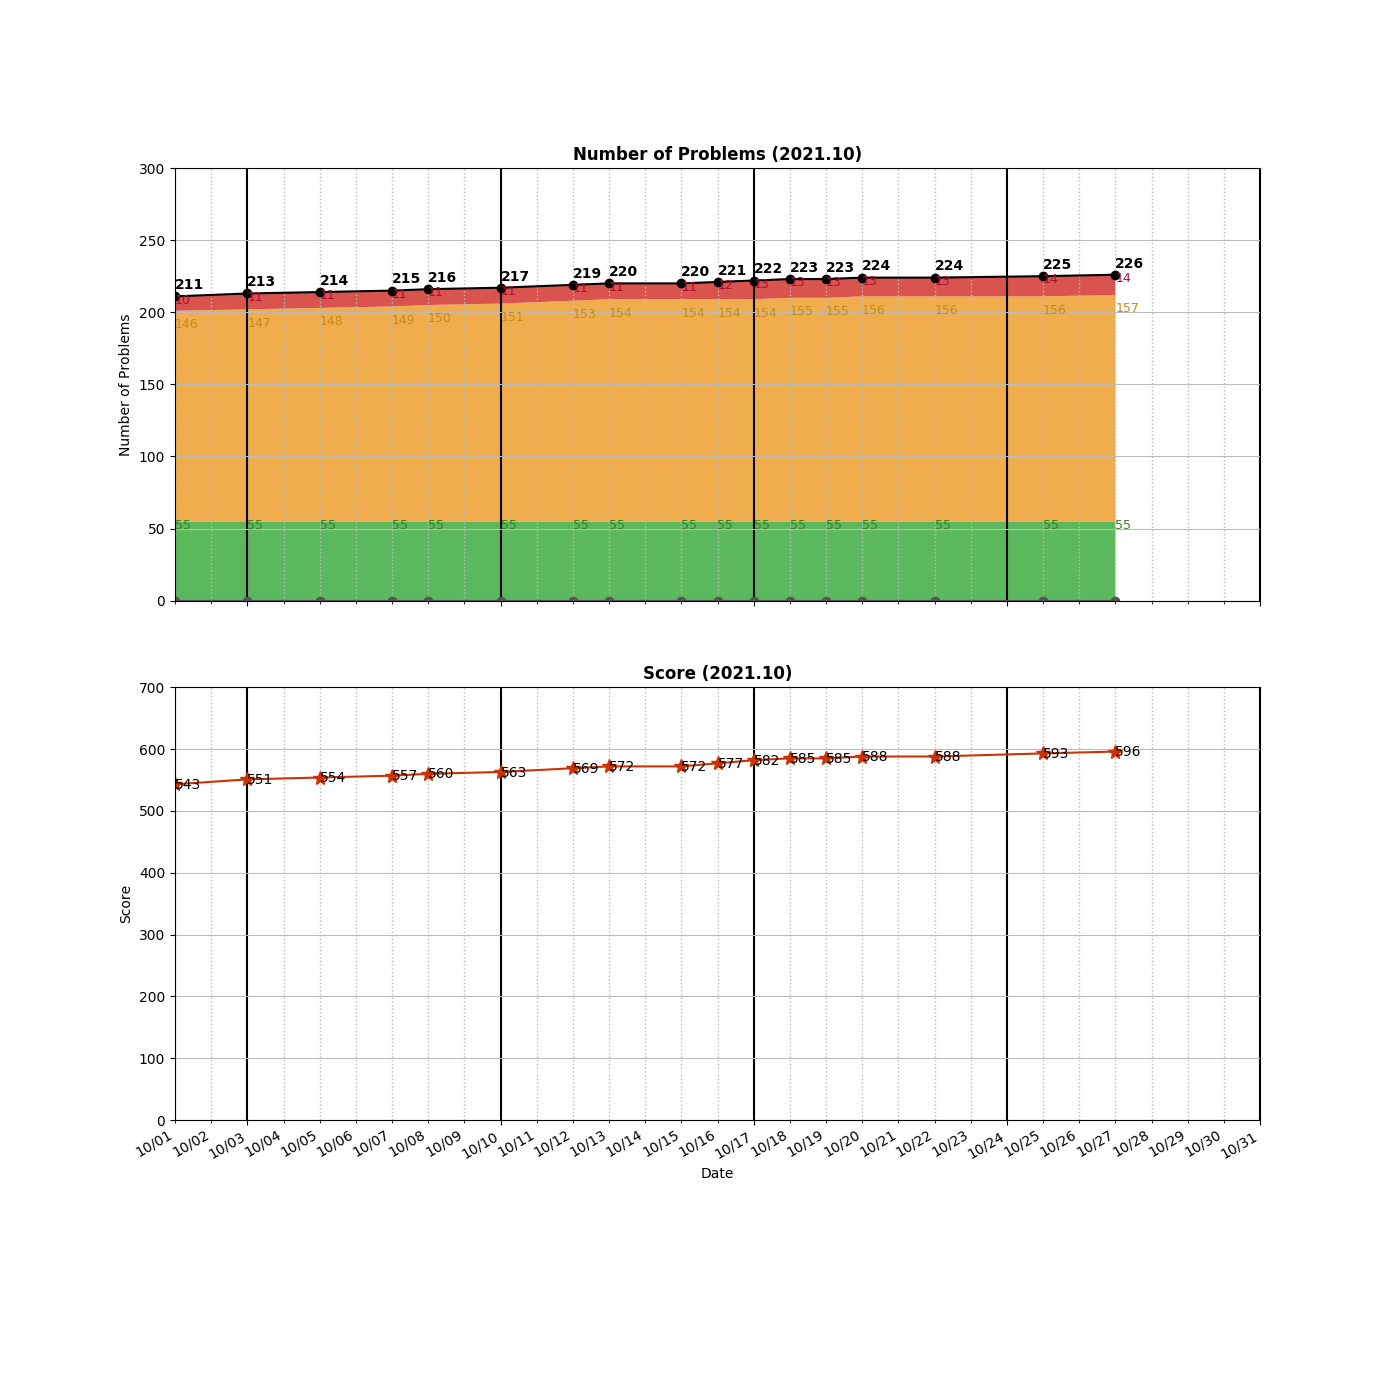
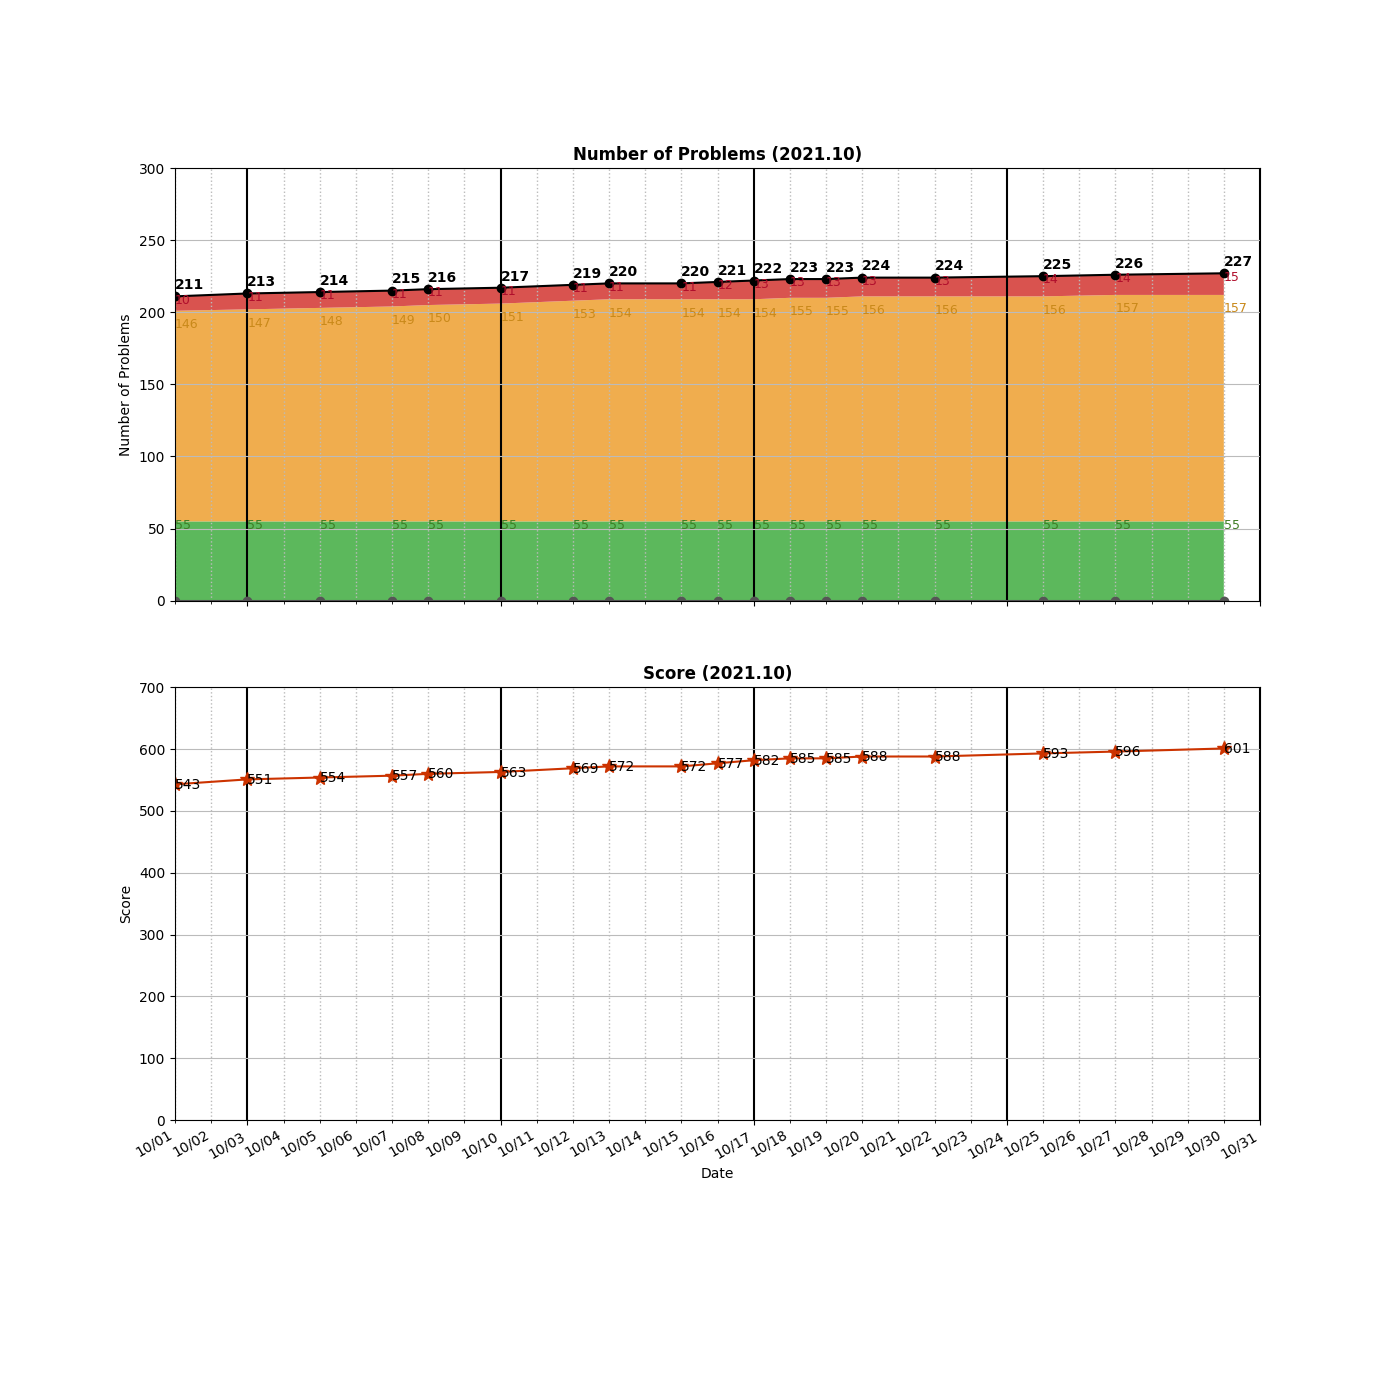
Added __0211__Design Add and Search Words Data Structure.py

Changed region(s): [[0.7986, 0.1843, 0.8907, 0.43], [0.86, 0.5221, 0.8907, 0.5529]]

diff --git a/algo/Trie/__0211__Design Add and Search Words Data Structure.py b/algo/Trie/__0211__Design Add and Search Words Data Structure.py
@@ -1,0 +1,63 @@
+
+# Trie [89%]
+class Node:
+    def __init__(self):
+        self.chmap = collections.defaultdict(Node)
+        self.isEnd = False
+        
+class WordDictionary:
+
+    def __init__(self):
+        """
+        Initialize your data structure here.
+        """
+        self.root = Node()
+
+    def addWord(self, word: str) -> None:
+        node = self.root
+        for c in word:
+            node = node.chmap[c]
+        node.isEnd = True
+
+    def search(self, word: str) -> bool:
+        print("search:", word)
+        root = self.root
+        return self.searchFromNode(word, root, 0)
+        
+    def searchFromNode(self, word, node, idx) -> bool:
+        #print("  searchFN:", word, "node:", node.chmap.keys(), idx)
+
+        if idx == len(word) - 1:
+            c = word[idx]
+            if c == ".":
+                for _, n in node.chmap.items():
+                    if n.isEnd is True:
+                        return True
+                return False
+                
+            n = node.chmap.get(c, None)
+            if n:
+                return n.isEnd
+            else:
+                return False
+        
+        c = word[idx]
+        if c == ".":
+            if len(node.chmap) == 0:
+                return False
+            for _, n in node.chmap.items():
+                if self.searchFromNode(word, n, idx+1):
+                    return True
+            return False
+        else:
+            if c in node.chmap:
+                n = node.chmap.get(c)
+                return self.searchFromNode(word, n, idx+1)
+            else:
+                return False
+
+
+# Your WordDictionary object will be instantiated and called as such:
+# obj = WordDictionary()
+# obj.addWord(word)
+# param_2 = obj.search(word)

diff --git a/README.md b/README.md
@@ -208,6 +208,7 @@ algo
 │   └── __1448__Count Good Nodes in Binary Tree.py
 ├── Trie
 │   ├── __0208__Implement Trie (Prefix Tree).py
+│   ├── __0211__Design Add and Search Words Data Structure.py
 │   └── __1268__Search Suggestions System.py
 ├── Two-Pointer
 │   ├── __0003__Longest Substring Without Repeating Characters.py
@@ -249,7 +250,7 @@ algo
         ├── LinkedList.cpython-37.pyc
         └── UnrolledLinkedList.cpython-37.pyc
 
-21 directories, 227 files
+21 directories, 228 files
 
 =====================================
 ============= Local Repo ============
@@ -352,6 +353,7 @@ __0206__Reverse Linked List.py
 __0207__Course Schedule.py
 __0208__Implement Trie (Prefix Tree).py
 __0210__Course Schedule II.py
+__0211__Design Add and Search Words Data Structure.py
 __0212__Word Search II.py
 __0215__Kth Largest Element in an Array.py
 __0216__Combination Sum III.py
@@ -474,7 +476,7 @@ __1774__Closest Dessert Cost.py
 __1905__Count Sub Islands.py
 __1937__Maximum Number of Points with Cost.py
 =====================================
-Num of Python Practice:  219
+Num of Python Practice:  220
 
 
 =====================================
@@ -571,7 +573,7 @@ Num of Python Practice:  219
  0155 Min Stack
  0160 Intersection of Two Linked Lists
  0162 Find Peak Element
- 0167 Two Sum II - Input array is sorted
+ 0167 Two Sum II - Input Array Is Sorted
  0173 Binary Search Tree Iterator
  0189 Rotate Array
  0199 Binary Tree Right Side View
@@ -580,6 +582,7 @@ Num of Python Practice:  219
  0207 Course Schedule
  0208 Implement Trie (Prefix Tree)
  0210 Course Schedule II
+ 0211 Design Add and Search Words Data Structure
  0212 Word Search II
  0215 Kth Largest Element in an Array
  0216 Combination Sum III
@@ -709,9 +712,9 @@ Num of Python Practice:  219
 =====================================
 Solved / Total (Easy)  :   55 /  522
 Solved / Total (Medium):  157 / 1093
-Solved / Total (Hard)  :   14 /  436
-Solved / Total (All)   :  226 / 2051
-Total Score            :  596
+Solved / Total (Hard)  :   15 /  437
+Solved / Total (All)   :  227 / 2052
+Total Score            :  601
 =====================================
 
 ```
